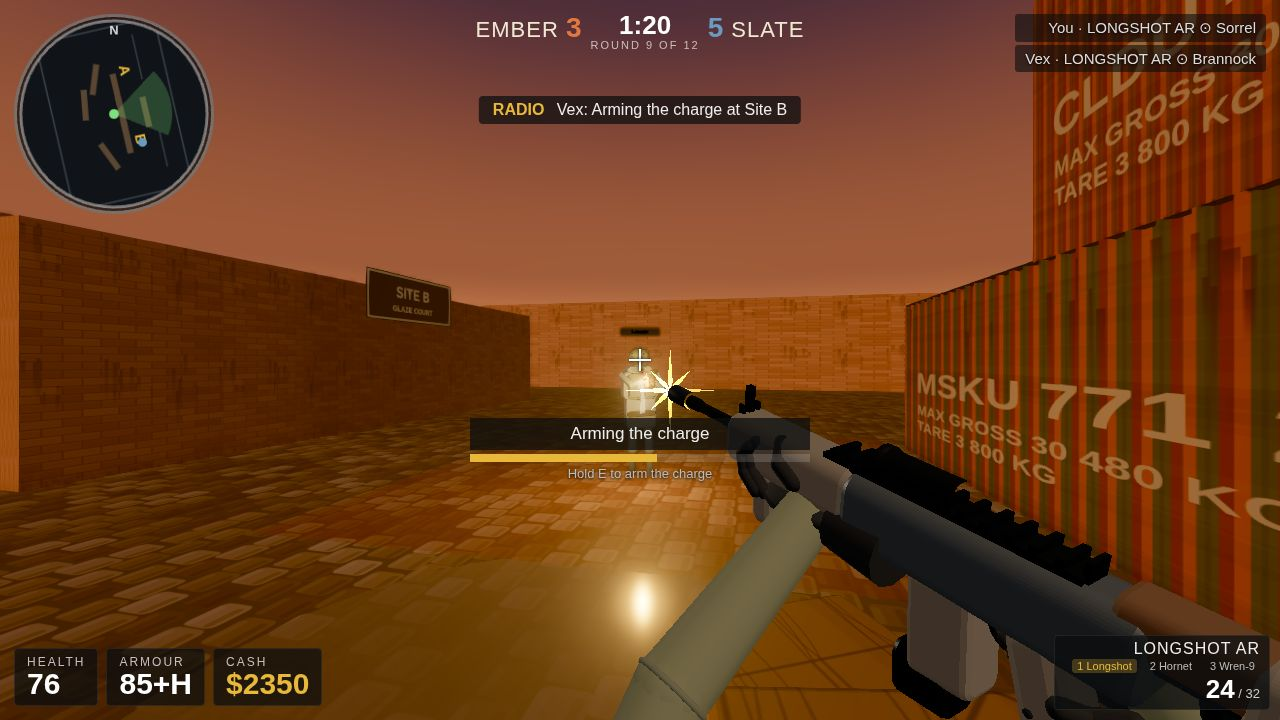
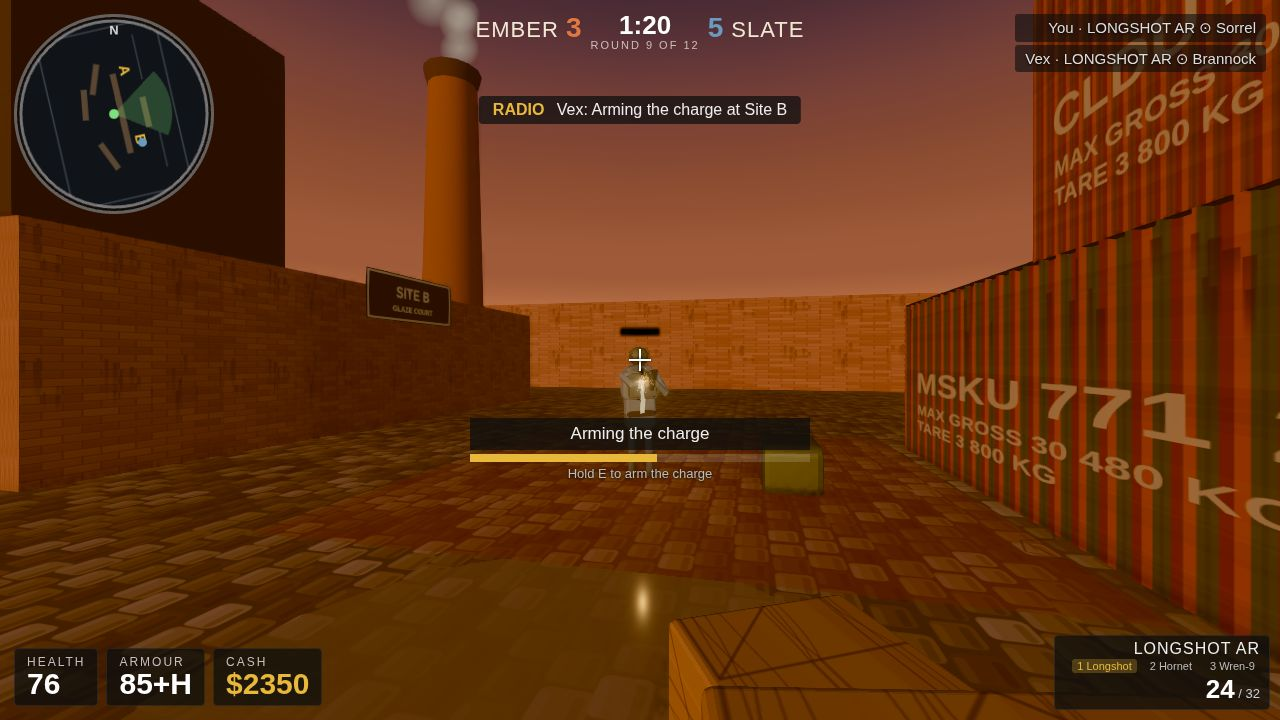
Celah 3: duel — musuh tidak overexposed + VM disembunyikan
(a) Overexposure: PointLight flash musuh intensity 10 di moncong cuma
~0.5 m dari dada = 40x irradiance di atas baju SLATE + matahari depan
(duel) + bloom = hantu putih. R1: spawnFlash makeFlash(scale,1.2) —
hantu hilang, musuh kebaca tan/abu; R2: turun lagi ke 0.6 (2.4x) —
crop dada R2 identik R1, membuktikan flash kini negligible dan sisa
krem di dada adalah MATAHARI dusk (3.0, NdotL 0.93, ~2.8x) — seragam
yang kena matahari dusk memang terang; re-staging duel cuma buat ini
= risiko wash R3/R4 terulang, jadi diterima sebagai batas jujur.
Bintang + glow sprite tidak berubah — flash tetap kebaca.
(b) VM disembunyikan di stage duel: vmScene.visible=false di cabang
duel, reset true di atas stage() (combat/buy/score tetap tampil VM).
spawnVmFlash di duel tetap jalan tapi tidak kelihatan.
Verifikasi: shoot-v2 duel + combat, 3 ronde (R1/R2 ada perubahan,
R3 verifikasi tanpa perubahan — stabil, ukuran file R2 vs R3 beda
2 byte duel / 66 byte combat). Grip musuh 0/0 di semua shot.
Determinisme main.ts 2x IDENTIK.

diff --git a/game/src/game.js b/game/src/game.js
@@ -285,7 +285,17 @@ export class Game {
 
   // ---- effects ----
   spawnFlash(pos, scale = 0.28) {
-    const f = makeFlash(scale);
+    // CELAH 3: cahaya flash musuh 10 MEMBAKAR badan musuh sendiri jadi
+    // putih — PointLight di moncong cuma ~0.5 m dari dada: 10/0.5^2 = 40x
+    // irradiance di atas baju SLATE (0x6b7d8e) + matahari depan (duel) +
+    // bloom = hantu putih. R1 turun ke 1.2 (4.8x di 0.5 m) — hantu hilang,
+    // tapi dada di duel MASIH krem: matahari dusk (3.0, NdotL 0.93 di
+    // dada yang menghadap WSW) sendiri sudah ~2.8x. R2 turun lagi ke 0.6
+    // (2.4x di 0.5 m) — ciuman hangat saja. Bintang + glow sprite tidak
+    // berubah — flash tetap kebaca. (Matahari di dada duel dibiarkan:
+    // seragam yang kena matahari dusk MEMANG terang; ubah staging duel
+    // cuma buat ini = risiko wash R3/R4 terulang.)
+    const f = makeFlash(scale, 0.6);
     f.position.copy(pos);
     this.effects.add(f);
     this._flash = f;
@@ -331,6 +341,9 @@ export class Game {
     this.reseed(20261116);
     this.frozen = true;
     this.effects.clear();
+    // CELAH 3: VM tampil di semua stage KECUALI duel (disembunyikan di
+    // cabang duel di bawah, seperti Kilnyard-2 yang bersih tanpa VM).
+    this.vmScene.visible = true;
     if (this._vmFlash) { this.vmScene.remove(this._vmFlash); this._vmFlash = null; }
     this.state = 'live';
     this.round = 9;
@@ -435,6 +448,11 @@ export class Game {
       for (const b of this.bots) if (b !== t1) b.soldier.group.position.set(30, 0, 30);
       this.hud.hint('Buy time: B opens the requisition menu');
     } else if (name === 'duel') {
+      // CELAH 3: sembunyikan viewmodel di shot duel/arming (Kilnyard-2
+      // bersih tanpa VM — scene + bar arming yang jadi fokus). spawnVmFlash
+      // di bawah tetap jalan tapi tidak kelihatan (flash hidup di vmScene,
+      // dibersihkan pas stage berikutnya masuk).
+      this.vmScene.visible = false;
       // site B: player comes down the EAST lane (x>17, clear of the z=-3
       // container row), enemy guarding the charge, SITE B sign behind-right.
       // R2 put the player at (11,-1.5) — 0.3 m from the stacked container's
